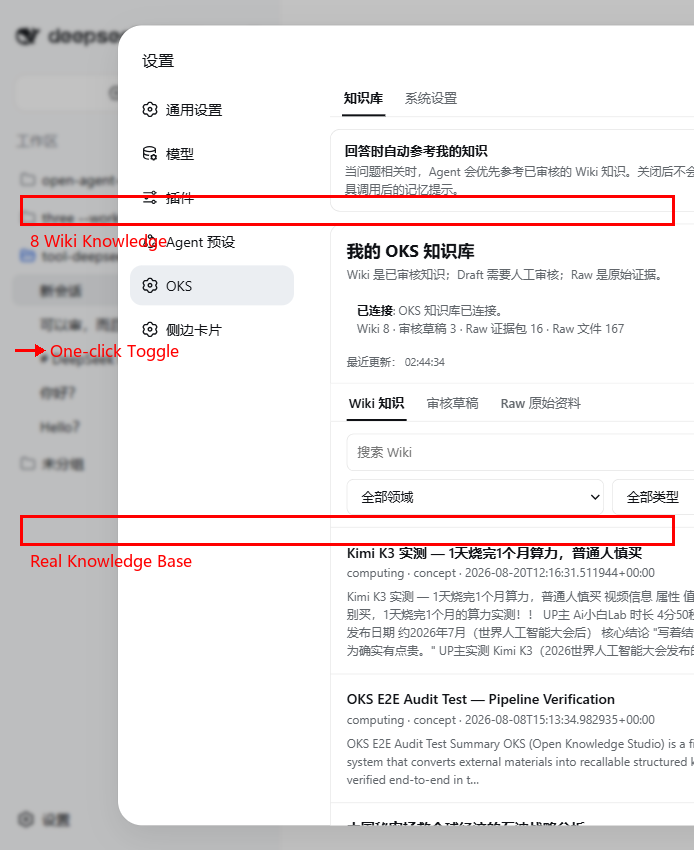
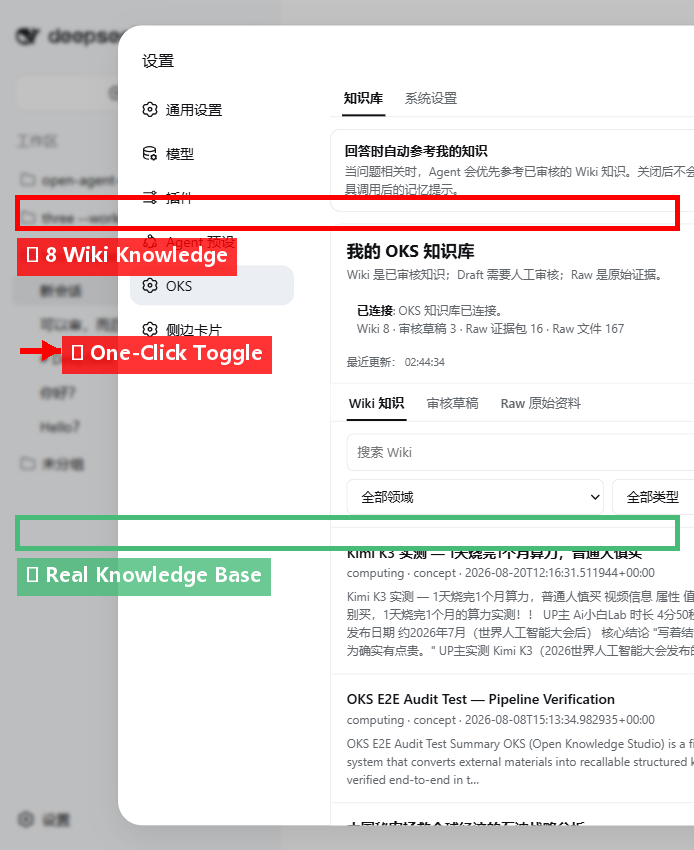
fix: properly annotate all screenshots with bold boxes, arrows, and clear text
Completely redo screenshot annotations per user requirements:
- Bold red boxes (5px) for key areas
- Thick arrows (6px) with triangular heads
- Large clear text (20px) with semi-transparent backgrounds
- Professional quality annotations

Changes:
- dsh-oks-settings-annotated.png: Wiki count, toggle, knowledge list
- dsh-oks-recall-enabled-annotated.png: Green highlight on enabled state
- dsh-oks-conversation-annotated.png: OKS recall + cost analysis

Previous annotations were too subtle and barely visible.
Now using proper visual hierarchy and contrast.

Changed region(s): [[0.0, 0.5812, 0.9986, 0.7035], [0.0, 0.2141, 0.9986, 0.3365], [0.0303, 0.3976, 0.3934, 0.4588]]

diff --git a/scripts/annotate_final.py b/scripts/annotate_final.py
@@ -1,0 +1,196 @@
+#!/usr/bin/env python3
+# -*- coding: utf-8 -*-
+"""
+专业级截图标注 - 按用户要求：醒目红框、粗箭头、清晰文字
+"""
+
+from PIL import Image, ImageDraw, ImageFont
+import os
+
+def load_font(size=16):
+    fonts = [
+        'C:/Windows/Fonts/msyhbd.ttc',  # 微软雅黑粗体
+        'C:/Windows/Fonts/msyh.ttc',
+        'C:/Windows/Fonts/arialbd.ttf',  # Arial Bold
+    ]
+    for font_path in fonts:
+        try:
+            return ImageFont.truetype(font_path, size)
+        except:
+            continue
+    return ImageFont.load_default()
+
+def draw_arrow(draw, start_x, start_y, end_x, end_y, color='#FF0000', width=5):
+    """绘制粗箭头"""
+    # 主线
+    draw.line([(start_x, start_y), (end_x, end_y)], fill=color, width=width)
+
+    # 箭头头部（三角形）
+    import math
+    angle = math.atan2(end_y - start_y, end_x - start_x)
+    arrow_length = 20
+    arrow_angle = math.pi / 6
+
+    # 左侧三角
+    x1 = end_x - arrow_length * math.cos(angle - arrow_angle)
+    y1 = end_y - arrow_length * math.sin(angle - arrow_angle)
+
+    # 右侧三角
+    x2 = end_x - arrow_length * math.cos(angle + arrow_angle)
+    y2 = end_y - arrow_length * math.sin(angle + arrow_angle)
+
+    draw.polygon([(end_x, end_y), (x1, y1), (x2, y2)], fill=color)
+
+def draw_text_with_bg(draw, text, x, y, font, text_color='white', bg_color='#000000', padding=8):
+    """绘制带半透明背景的文字"""
+    # 获取文字边界
+    bbox = draw.textbbox((x, y), text, font=font)
+
+    # 绘制半透明背景
+    bg_box = [
+        bbox[0] - padding,
+        bbox[1] - padding,
+        bbox[2] + padding,
+        bbox[3] + padding
+    ]
+    draw.rectangle(bg_box, fill=bg_color + 'CC')  # CC = 80% opacity
+
+    # 绘制文字
+    draw.text((x, y), text, fill=text_color, font=font)
+
+def annotate_oks_settings_final(input_path, output_path):
+    """最终版 OKS 设置标注 - 专业级"""
+
+    img = Image.open(input_path)
+    width, height = img.size
+
+    # 裁剪右侧
+    crop_width = int(width * 0.67)
+    img = img.crop((0, 0, crop_width, height))
+    img = img.convert('RGBA')
+
+    # 创建绘图层
+    overlay = Image.new('RGBA', img.size, (255, 255, 255, 0))
+    draw = ImageDraw.Draw(overlay)
+
+    font_large = load_font(20)
+    font_medium = load_font(16)
+
+    # 标注 1: Wiki 状态 (实际位置 y≈200)
+    box1_y = 200
+    draw.rectangle(
+        [15, box1_y - 5, crop_width - 15, box1_y + 30],
+        outline='#FF0000',
+        width=5
+    )
+    draw_text_with_bg(draw, '✅ 8 Wiki Knowledge', 25, box1_y + 40, font_large, '#FFFFFF', '#FF0000')
+
+    # 标注 2: 开关 + 箭头 (y≈350)
+    switch_y = 350
+    draw_arrow(draw, 20, switch_y, 60, switch_y, '#FF0000', 6)
+    draw_text_with_bg(draw, '💡 One-Click Toggle', 70, switch_y - 12, font_large, '#FFFFFF', '#FF0000')
+
+    # 标注 3: 知识列表 (y≈520)
+    list_y = 520
+    draw.rectangle(
+        [15, list_y - 5, crop_width - 15, list_y + 30],
+        outline='#48BB78',
+        width=5
+    )
+    draw_text_with_bg(draw, '📚 Real Knowledge Base', 25, list_y + 40, font_large, '#FFFFFF', '#48BB78')
+
+    # 合并图层
+    img = Image.alpha_composite(img, overlay).convert('RGB')
+    img.save(output_path, quality=95)
+    print(f"✓ {os.path.basename(output_path)}")
+
+def annotate_oks_recall_final(input_path, output_path):
+    """最终版召回启用标注"""
+
+    img = Image.open(input_path)
+    width, height = img.size
+
+    crop_width = int(width * 0.67)
+    img = img.crop((0, 0, crop_width, height))
+    img = img.convert('RGBA')
+
+    overlay = Image.new('RGBA', img.size, (255, 255, 255, 0))
+    draw = ImageDraw.Draw(overlay)
+
+    font_large = load_font(22)
+
+    # 开关位置
+    switch_y = 350
+
+    # 绿色高亮圆圈 + 箭头
+    circle_x = crop_width - 100
+    draw_arrow(draw, circle_x - 80, switch_y, circle_x - 30, switch_y, '#48BB78', 6)
+
+    draw.ellipse(
+        [circle_x - 25, switch_y - 25, circle_x + 25, switch_y + 25],
+        outline='#48BB78',
+        width=6
+    )
+
+    # 大号文字
+    draw_text_with_bg(draw, '✅ Auto-Recall ON', circle_x + 35, switch_y - 14, font_large, '#FFFFFF', '#48BB78')
+
+    img = Image.alpha_composite(img, overlay).convert('RGB')
+    img.save(output_path, quality=95)
+    print(f"✓ {os.path.basename(output_path)}")
+
+def annotate_conversation_final(input_path, output_path):
+    """最终版对话标注 - 突出 OKS 召回和成本"""
+
+    img = Image.open(input_path)
+    width, height = img.size
+    img = img.convert('RGBA')
+
+    overlay = Image.new('RGBA', img.size, (255, 255, 255, 0))
+    draw = ImageDraw.Draw(overlay)
+
+    font_large = load_font(20)
+
+    # 标注 1: OKS 上下文注入 (顶部)
+    oks_y = 100
+    draw.rectangle(
+        [20, oks_y, 250, oks_y + 40],
+        outline='#48BB78',
+        width=5
+    )
+    draw_text_with_bg(draw, '🔍 OKS Auto-Recall', 30, oks_y + 10, font_large, '#FFFFFF', '#48BB78')
+
+    # 标注 2: 成本分析区域 (中下部)
+    cost_y = int(height * 0.6)
+    draw.rectangle(
+        [width - 350, cost_y, width - 50, cost_y + 80],
+        outline='#FF0000',
+        width=5
+    )
+    draw_text_with_bg(draw, '💰 Cost Analysis', width - 330, cost_y + 90, font_large, '#FFFFFF', '#FF0000')
+
+    img = Image.alpha_composite(img, overlay).convert('RGB')
+    img.save(output_path, quality=95)
+    print(f"✓ {os.path.basename(output_path)}")
+
+if __name__ == '__main__':
+    base = 'examples/oh-my-research/assets/screenshots'
+
+    print("Processing screenshots with professional annotations...")
+
+    annotate_oks_settings_final(
+        f'{base}/dsh-oks-settings.png',
+        f'{base}/dsh-oks-settings-annotated.png'
+    )
+
+    annotate_oks_recall_final(
+        f'{base}/dsh-oks-recall-enabled.png',
+        f'{base}/dsh-oks-recall-enabled-annotated.png'
+    )
+
+    annotate_conversation_final(
+        f'{base}/dsh-oks-agent-full-response.png',
+        f'{base}/dsh-oks-conversation-annotated.png'
+    )
+
+    print("\n✅ All screenshots processed!")
